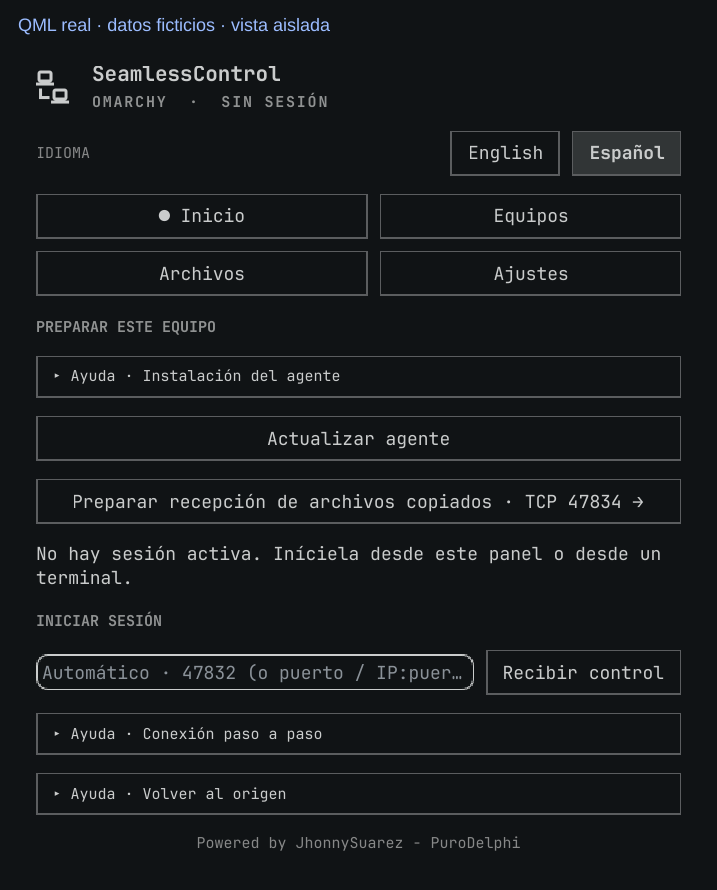
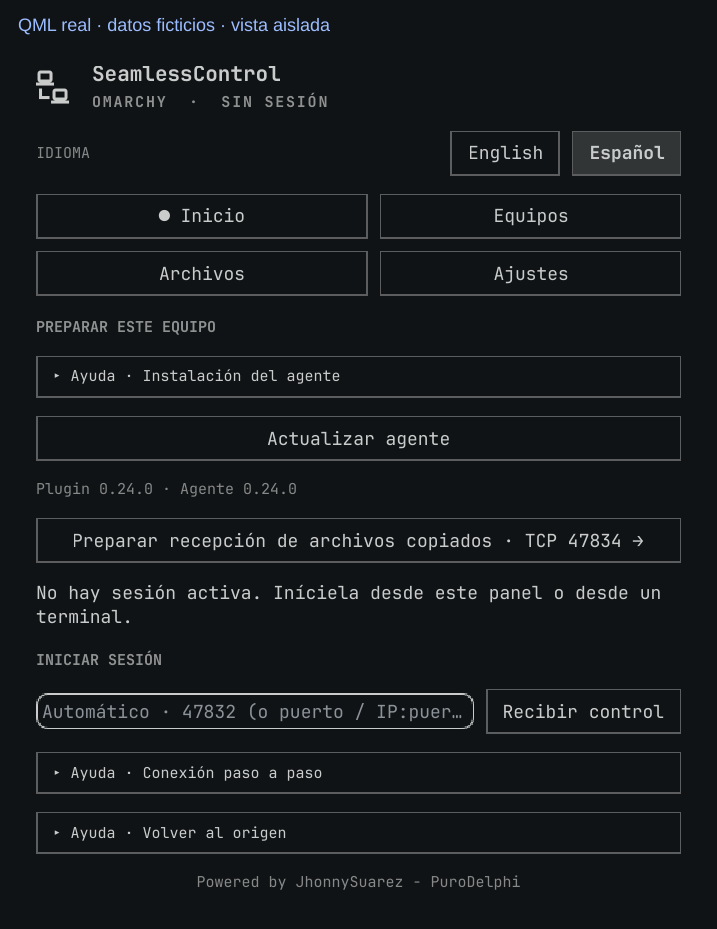
Document diagnostics and guard mismatched Windows agents

diff --git a/agent/src/windows_ui.html b/agent/src/windows_ui.html
@@ -81,7 +81,7 @@
   $('clearLayout').addEventListener('click',()=>{if(selectedPeer)send('clearLayout',{fingerprint:selectedPeer})});
   function renderCopiedFile(){const selected=state.copiedFile;$('copiedFileStatus').textContent=selected?(language==='es'?'Archivo copiado: ':'Copied file: ')+selected:(state.clipboardReady?t('copyReady','Ready for copied files · TCP 47834'):t('copyNotReady','Preparing to receive copied files…'))+' · '+(selected?'':t('copyEmpty','Copy one file in Explorer to offer it.'));if(state.clipboardProgress!==null&&state.clipboardProgress!==undefined)$('copiedFileStatus').textContent+=(language==='es'?' · Recibiendo ':' · Receiving ')+state.clipboardProgress+'%';const peers=$('copiedFilePeers');peers.replaceChildren();if(selected)for(const peer of state.peers||[])peers.append(button(t('offerTo','Offer to ')+peer.ip,'sendCopiedFile',{payload:{ip:peer.ip},primary:true}));const offer=state.clipboardOffer;$('copiedFileOffer').classList.toggle('hidden',!offer);$('copiedFileOfferActions').classList.toggle('hidden',!offer);const details=offer?.split('\t')||[];$('copiedFileOffer').textContent=details.length===5?((language==='es'?'Archivo de ':'File from ')+details[1]+': '+details[2]+' ('+details[3]+' bytes)'):offer||'';}
   function renderApprovalFeedback(){const status=approvalDirty?'unsaved':state.approvalFeedback||'';const words={saved:t('approvalSaved','File approval mode saved.'),saving:t('approvalSaving','Saving file approval mode…'),error:t('approvalError','Could not save file approval mode. Check the selected time.'),expired:t('approvalExpired','The time window ended. Every file will require approval again.'),unsaved:t('approvalUnsaved','Unsaved changes.')};$('approvalFeedback').textContent=words[status]||'';$('approvalFeedback').style.color=status==='error'?'var(--danger)':'var(--accent)';const seconds=Number(state.approvalSecondsRemaining||0);$('approvalWindow').textContent=state.approvalMode==='timed'&&seconds>0?t('approvalActive','Temporary approval active: ')+Math.floor(seconds/60)+':'+String(seconds%60).padStart(2,'0'):''}
-  function renderStartup(){const status=state.startup||'off';$('startupStatus').textContent=status==='on'?(language==='es'?'ACTIVADO':'ON'):status==='moved'?(language==='es'?'ACTUALIZAR RUTA':'UPDATE PATH'):status==='error'?(language==='es'?'ERROR':'ERROR'):(language==='es'?'DESACTIVADO':'OFF');$('startupStatus').classList.toggle('green',status==='on');$('startupStatus').classList.toggle('warn',status==='moved'||status==='error');$('startupEnable').disabled=status==='on';$('startupDisable').disabled=status==='off';const match=state.appVersion&&state.agentVersion===state.appVersion;$('versionStatus').textContent=(language==='es'?'App ':'App ')+(state.appVersion||'?')+' · '+(language==='es'?'Agente ':'Agent ')+(state.agentVersion||'?')+(match?'':language==='es'?' · VERSIONES DISTINTAS: reemplace juntos ambos ejecutables.':' · VERSION MISMATCH: replace both executables together.');$('versionStatus').style.color=match?'var(--muted)':'var(--danger)';const d=state.diagnosis;$('diagnosisStatus').textContent=!d?'':d.reason==='control_port_unreachable'?(language==='es'?'El puerto no responde. Active Recibir control en el destino y autorice su puerto TCP en el firewall.':'The port does not respond. Start Receive control on the destination and allow its TCP port in the firewall.'):d.reason==='pair_first'?(language==='es'?'Puerto disponible. Empareje y compare el código en ambos equipos; el puerto no confirma la identidad.':'Port available. Pair and compare the code on both computers; an open port does not prove identity.'):(language==='es'?'Puerto disponible y clave guardada. La identidad se verificará al conectar.':'Port available and key saved. Identity will be verified on connection.');$('diagnosisStatus').style.color=d?.reachable?'var(--accent)':'var(--danger)';}
+  function renderStartup(){const status=state.startup||'off';$('startupStatus').textContent=status==='on'?(language==='es'?'ACTIVADO':'ON'):status==='moved'?(language==='es'?'ACTUALIZAR RUTA':'UPDATE PATH'):status==='error'?(language==='es'?'ERROR':'ERROR'):(language==='es'?'DESACTIVADO':'OFF');$('startupStatus').classList.toggle('green',status==='on');$('startupStatus').classList.toggle('warn',status==='moved'||status==='error');$('startupEnable').disabled=status==='on';$('startupDisable').disabled=status==='off';const match=state.appVersion&&state.agentVersion===state.appVersion;$('versionStatus').textContent=(language==='es'?'App ':'App ')+(state.appVersion||'?')+' · '+(language==='es'?'Agente ':'Agent ')+(state.agentVersion||'?')+(match?'':language==='es'?' · VERSIONES DISTINTAS: reemplace juntos ambos ejecutables.':' · VERSION MISMATCH: replace both executables together.');$('versionStatus').style.color=match?'var(--muted)':'var(--danger)';const d=state.diagnosis?.address===$('pairAddress').value.trim()?state.diagnosis:null;$('diagnosisStatus').textContent=!d?'':d.reason==='control_port_unreachable'?(language==='es'?'El puerto no responde. Active Recibir control en el destino y autorice su puerto TCP en el firewall.':'The port does not respond. Start Receive control on the destination and allow its TCP port in the firewall.'):d.reason==='pair_first'?(language==='es'?'Puerto disponible. Empareje y compare el código en ambos equipos; el puerto no confirma la identidad.':'Port available. Pair and compare the code on both computers; an open port does not prove identity.'):(language==='es'?'Puerto disponible y clave guardada. La identidad se verificará al conectar.':'Port available and key saved. Identity will be verified on connection.');$('diagnosisStatus').style.color=d?.reachable?'var(--accent)':'var(--danger)';}
   window.seamlessReceive=function(next){state=next;renderStartup();if(!restoredConnection){$('receivePort').value=String(state.receivePort||47832);$('connectAddress').value=state.lastAddress||'';$('edge').value=state.lastEdge||'left';updateFirewallLabels();restoredConnection=true}const receive=!!state.receive,connect=!!state.connect,file=!!state.fileReceive,mode=state.controlMode||'receive';for(const [id,on] of [['receiveBadge',receive],['connectBadge',connect],['fileBadge',file]]){const badge=$(id),retrying=!on&&(id==='receiveBadge'&&mode==='receive'||id==='connectBadge'&&mode==='connect');badge.textContent=on?(language==='es'?'ACTIVO':'ACTIVE'):retrying?(language==='es'?'REINTENTANDO':'RETRYING'):(language==='es'?'INACTIVO':'OFF');badge.classList.toggle('green',on);badge.classList.toggle('warn',retrying)}$('startReceive').disabled=receive;$('stopReceive').disabled=mode!=='receive';$('startConnect').disabled=connect;$('stopConnect').disabled=mode!=='connect';$('message').textContent=state.message||'';$('topStatus').textContent=connect?(language==='es'?'CONECTADO':'CONNECTED'):mode==='connect'?(language==='es'?'REINTENTANDO':'RETRYING'):receive?(language==='es'?'DISPONIBLE':'AVAILABLE'):mode==='receive'?(language==='es'?'INICIANDO':'STARTING'):(language==='es'?'RED LOCAL':'LOCAL NETWORK');const pair=!!state.pairCode;if(pair&&state.pairCode!==lastPairCode)tab('devices');lastPairCode=state.pairCode||'';const pairWords={connecting:t('pairConnecting','Connecting to the receiver. Keep Receive control active there.'),code:t('pairCodeHelp','Compare the code on both screens and approve it on each.'),unavailable:t('pairUnavailable','Could not reach the receiver. Start Receive control on that computer and allow its control TCP port (usually 47832) through its firewall.'),rejected:t('pairRejected','Pairing was rejected. If you revoked the key, update both agents and select Pair again; compare and approve the code on both computers.'),paired:t('pairSuccess','Computer paired successfully.'),error:t('pairGenericError','Could not pair. Check the address, network and approval on both computers.')};const pairFeedback=$('pairFeedback');pairFeedback.textContent=pairWords[state.pairStatus]||'';pairFeedback.classList.toggle('hidden',!pairFeedback.textContent);$('pairBox').classList.toggle('hidden',!pair);$('pairCode').textContent=state.pairCode||'';$('fileOffer').classList.toggle('hidden',!state.fileOffer);$('fileOfferActions').classList.toggle('hidden',!state.fileOffer);const manual=state.fileOffer?.split('\t')||[];$('fileOffer').textContent=manual.length===5?((language==='es'?'Archivo de ':'File from ')+manual[1]+': '+manual[2]+' ('+manual[3]+' bytes)'):state.fileOffer||'';if(document.activeElement!==$('fileLimitMiB'))$('fileLimitMiB').value=String(state.fileLimitMiB||100);if(!approvalDirty){$('approvalMode').value=state.approvalMode||'always';$('approvalMinutes').value=String(state.approvalMinutes||15)}$('approvalMinutes').disabled=$('approvalMode').value!=='timed';renderApprovalFeedback();if(state.filePath)$('selectedPath').textContent=state.filePath;if(!$('fileDirectory').value&&state.defaultDownload)$('fileDirectory').value=state.defaultDownload;const logs=state.logs||[];const log=$('log');const current=log.dataset.last;if(current!==JSON.stringify(logs)){log.replaceChildren();for(const entry of logs){const div=document.createElement('div');div.className='log-line';div.textContent=entry;log.append(div)}log.scrollTop=log.scrollHeight;log.dataset.last=JSON.stringify(logs)}renderDevices();renderCopiedFile()};
   document.addEventListener('click',e=>{const tabButton=e.target.closest('[data-tab]');if(tabButton){tab(tabButton.dataset.tab);return}const action=e.target.closest('[data-action]')?.dataset.action;if(!action||action==='noop')return;if(action==='setFileApproval'){approvalDirty=false;state.approvalFeedback='saving';renderApprovalFeedback()}const address=$('connectAddress').value.trim();const fileAddress=$('fileAddress').value.trim();const pairAddress=$('pairAddress').value.trim();if(action==='quit'&&!confirm(language==='es'?'Salir cerrará las sesiones iniciadas desde esta app. ¿Continuar?':'Exiting will end sessions started by this app. Continue?'))return;const data={startReceive:{port:$('receivePort').value.trim()},connect:{address,edge:$('edge').value},pair:{address:pairAddress},diagnosePeer:{address:pairAddress},approvePair:{code:$('pairInput').value.trim()},waitFile:{port:$('filePort').value.trim(),directory:$('fileDirectory').value.trim()},setFileLimit:{value:$('fileLimitMiB').value.trim()},setFileApproval:{mode:$('approvalMode').value,minutes:$('approvalMinutes').value.trim()},sendFile:{address:fileAddress},firewallControl:{port:$('receivePort').value.trim()},firewallFiles:{port:$('filePort').value.trim()}}[action]||{};send(action,data)});
   $('approvalMode').addEventListener('change',()=>{approvalDirty=true;$('approvalMinutes').disabled=$('approvalMode').value!=='timed';renderApprovalFeedback()});$('approvalMinutes').addEventListener('input',()=>{approvalDirty=true;renderApprovalFeedback()});$('receivePort').addEventListener('input',updateFirewallLabels);$('filePort').addEventListener('input',updateFirewallLabels);

diff --git a/plugin/Panel.qml b/plugin/Panel.qml
@@ -592,6 +592,10 @@ Panel {
             id: pairAddress
             Layout.fillWidth: true
             enabled: root.backend && !root.backend.available
+            onTextChanged: if (root.backend) {
+              root.backend.diagnosisReason = ""
+              root.backend.diagnosisError = ""
+            }
             placeholderText: root.t("Dirección del receptor · IP:puerto")
             color: root.ink
             font.family: root.face

diff --git a/plugin/AgentBackend.qml b/plugin/AgentBackend.qml
@@ -599,7 +599,7 @@ Item {
       waitForEnd: true
       onStreamFinished: root.agentVersion = String(text || "").trim()
     }
-    onExited: function(code) { if (code !== 0) root.agentVersion = "" }
+    onExited: function(code) { if (code !== 0) root.agentVersion = "?" }
   }
 
   Process {

diff --git a/agent/src/windows_ui.rs b/agent/src/windows_ui.rs
@@ -456,6 +456,14 @@ impl Controller {
     }
 
     fn start_desired_control(&mut self, proxy: &EventLoopProxy<UiEvent>) -> io::Result<()> {
+        if self.session.mode != ControlMode::Idle
+            && self.agent_version != seamlesscontrol_core::PRODUCT_VERSION
+        {
+            self.retry_control_after = None;
+            return Err(io::Error::other(
+                "app and agent versions differ; exit from the tray and replace both executables from the same ZIP",
+            ));
+        }
         let receive_port = self.session.receive_port;
         let address = self.session.address.map(|address| address.to_string());
         let edge = self.session.edge.clone();
@@ -1140,6 +1148,7 @@ impl Controller {
                 }
                 "refreshPeers" => self.refresh_peers(),
                 "diagnosePeer" => {
+                    self.diagnosis = None;
                     let address = parse_address(string("address"))?;
                     self.diagnosis = Some(diagnose_peer(
                         address,

diff --git a/scripts/render-omarchy-doc-screenshots.py b/scripts/render-omarchy-doc-screenshots.py
@@ -146,7 +146,8 @@ def fixture_qml(language):
     defaults = {"string": '""', "bool": "false", "int": "0", "var": "null"}
     properties = re.findall(r"^  (?:readonly )?property (string|bool|int|var) (\w+):", source, re.M)
     values = {
-        "language": language, "installed": True, "peers": [{"ip": "192.0.2.20", "key": "abcdef0123456789" * 4}],
+        "language": language, "installed": True, "pluginVersion": "0.24.0", "agentVersion": "0.24.0",
+        "peers": [{"ip": "192.0.2.20", "key": "abcdef0123456789" * 4}],
         "discovered": [{"ip": "192.0.2.20", "key": "abcdef0123456789" * 4, "name": "Demo receiver", "address": "192.0.2.20:47832"}],
         "topology": [{"id": "local", "column": 0, "row": 0}, {"id": "192.0.2.20", "column": 1, "row": 0}],
         "peer": "192.0.2.20", "fileLimitMiB": 100, "approvalMode": "always", "approvalMinutes": 15,

diff --git a/scripts/render-windows-doc-screenshots.py b/scripts/render-windows-doc-screenshots.py
@@ -44,6 +44,7 @@ FOCUS_CSS = {
 def fixture(language: str, view: str) -> dict:
     """Supply the UI's normal state shape, never a successful live operation."""
     state = {
+        "appVersion": "0.24.0", "agentVersion": "0.24.0", "diagnosis": None,
         "receive": True, "connect": False, "fileReceive": False,
         "controlMode": "receive", "receivePort": 47832,
         "lastAddress": "192.0.2.20:47832", "lastEdge": "right",

diff --git a/docs/IMPROVEMENTS-ALPHA.md b/docs/IMPROVEMENTS-ALPHA.md
@@ -6,7 +6,7 @@ Status: **planned** → **in progress** → **implemented** → **verified**. An
 
 | Priority | Improvement | Status | Completion criteria |
 | --- | --- | --- | --- |
-| 1 | Connection diagnosis and repair in both interfaces | In progress | Show agent, receiver, reachable control port, pairing and discovery results with a specific next action; do not claim that an open port proves the peer identity. |
+| 1 | Connection diagnosis and repair in both interfaces | Implemented | Show agent, receiver, reachable control port, pairing and discovery results with a specific next action; do not claim that an open port proves the peer identity. Physical Omarchy ↔ Windows UI verification remains before marking verified. |
 | 2 | Clear and safer updates | In progress | Show plugin and agent versions in Omarchy, detect mismatch and confirm update completion; offer a Windows package/update flow that replaces the GUI and agent together without losing preferences. |
 | 3 | Recover control through lock, sleep and disconnect | Planned | Release physical input before a source locks or sleeps; restore local control and require a fresh edge crossing after recovery; test on both physical systems. |
 | 4 | Copy multiple files and folders | Planned | Offer a group as one approval with item count, total size and safe destination handling; preserve the existing single-file behavior. |
@@ -18,7 +18,7 @@ Status: **planned** → **in progress** → **implemented** → **verified**. An
 | Date | Item | Evidence | Result |
 | --- | --- | --- | --- |
 | 2026-10-09 | Baseline | `alpha` starts at `838d164`; current Linux and Windows x64 CI passed for v0.23.3. | Baseline established. |
-| 2026-10-09 | Diagnosis | Added a shared, read-only LAN port and local trust check, with an action in each interface. A reachable port is explicitly not treated as proof of identity. | Implemented; Windows CI and physical UI checks pending. |
+| 2026-10-09 | Diagnosis | Added a shared, read-only LAN port and local trust check, with an action in each interface. A reachable port is explicitly not treated as proof of identity. Linux: 77 core tests passed; direct CLI probe of the live receiver returned `CHECK … false true pair_first`; Omarchy preview loaded; Windows x64 CI passed at `eda1360`. | Implemented; physical Windows UI check pending. |
 | 2026-10-09 | Updates | Embedded manifest version in both agents. Omarchy compares plugin and agent; Windows compares app and agent. | Version check implemented; bundled updater pending. |
 
 ## Implementation notes

diff --git a/docs/USER-GUIDE.es.md b/docs/USER-GUIDE.es.md
@@ -24,6 +24,8 @@ El puerto de control predeterminado es TCP `47832`. Si el emparejamiento agota e
 
 Abre **Equipos → 2 · Equipos cercanos**, pulsa **Buscar** y luego **Emparejar** junto al receptor. Si no aparece, usa **1 · Emparejar por dirección** con la `IP:puerto` real del receptor en la LAN. Son **dos alternativas**, no dos pasos obligatorios.
 
+Para una dirección manual, pulsa **Comprobar conexión antes de emparejar**. Si el puerto de control no responde, inicia **Recibir control** en el destino y autoriza allí su puerto TCP en el firewall. Si responde, continúa con el emparejamiento. Esta comprobación del puerto no establece confianza: para eso sigue siendo necesario comparar el código de seis cifras.
+
 Aparece un **código de seis cifras** en ambos equipos. Compara las dos pantallas y pulsa **Coincide · aprobar aquí** en **cada una** solo si coinciden. Si no, pulsa **No coincide · rechazar**. Emparejar guarda la confianza; no inicia el control del ratón y teclado. Una huella larga de identidad no es este código de comparación.
 
 ![Panel Equipos actual: dirección de emparejamiento, confirmación de seis cifras y equipos cercanos](images/omarchy-peers-es.png)
@@ -160,6 +162,8 @@ El botón de reparar captura solo aparece en una **sesión de origen iniciada de
 ## Actualizar y retirar
 
 Detén las sesiones activas antes de instalar, actualizar o retirar. **Inicio → Actualizar agente** abre una terminal de Omarchy para instalar el agente actual y las dependencias que falten. Actualiza el **plugin** por separado y reinicia el shell de Omarchy siguiendo el [README](../README.es.md#actualizar-o-retirar); vuelve a abrir el panel después. Si faltan las pestañas actuales o los ajustes de aprobación, el shell puede tener cargado un panel anterior.
+
+Inicio muestra las versiones del plugin y del agente instalado. Si son distintas, termina la sesión y pulsa **Actualizar agente**. Espera a que finalice la terminal de instalación; después vuelve a Inicio y comprueba que coincidan.
 
 **Ajustes → Retirar agente** pide confirmación y retira el agente administrado y solo los paquetes que SeamlessControl instaló para él. Conserva las claves emparejadas y el mapa. Retirar el agente no retira el plugin ni sus reglas de firewall; el README y la guía técnica explican esos pasos separados. Si el panel no puede abrir la terminal de instalación, usa la [instalación manual de la guía técnica](TECHNICAL.es.md#paquetes-y-actualizaciones).
 

diff --git a/docs/USER-GUIDE.md b/docs/USER-GUIDE.md
@@ -24,6 +24,8 @@ The default control port is TCP `47832`. If pairing times out, allow that port o
 
 Open **Computers → 2 · Nearby computers**, select **Scan**, then **Pair** beside the receiver. If discovery misses it, use **1 · Pair by address** with the receiver's actual LAN `IP:port` instead. These are **two alternatives**, not two required steps.
 
+For a manual address, select **Check connection before pairing**. If the control port does not respond, start **Receive control** on the destination and allow its TCP control port in that computer's firewall. If it responds, proceed with pairing. The port check does not establish trust: the matching six-digit code still does that.
+
 A **six-digit code** appears on both computers. Compare the two screens and select **Codes match · approve here** on **each** only if they agree. Otherwise select **Codes differ · reject**. Pairing saves trust; it does not start mouse and keyboard control. A long identity fingerprint is not this comparison code.
 
 ![Current Computers panel: pairing address, six-digit confirmation and nearby computers](images/omarchy-peers-en.png)
@@ -160,6 +162,8 @@ The capture repair button only appears for a **panel-started source session** af
 ## Update and remove
 
 Stop active sessions before installation, updating or removal. **Home → Update agent** opens an Omarchy terminal to install the current agent and missing dependencies. Update the **plugin** separately and restart the Omarchy shell following the [README](../README.md#update-or-remove); reopen the panel afterward. If current tabs or approval settings are missing, the shell may still have an older panel loaded.
+
+Home shows the plugin and installed agent versions. If they differ, stop the session and select **Update agent**. Wait for the installation terminal to finish, then return to Home and check that both versions match.
 
 **Settings → Remove agent** asks for confirmation and removes the managed agent and only packages SeamlessControl installed for it. Saved paired keys and layout remain. Removing the agent is not removing the plugin or its firewall rules; the README and technical guide explain those separate steps. If the panel cannot open the setup terminal, use the [technical guide's manual installation](TECHNICAL.md#packaging-and-updates).
 

diff --git a/docs/WINDOWS.es.md b/docs/WINDOWS.es.md
@@ -56,6 +56,8 @@ Emparejar establece confianza; **no** inicia la entrada remota. Necesitas acceso
 3. Compara las **seis cifras de ambas pantallas**. Si no coinciden o no esperabas la solicitud, pulsa **Rechazar**. En Windows, escribe las cifras mostradas y pulsa **Coinciden · aprobar**; aprueba también en el otro equipo. La huella de identidad larga no es el código de emparejamiento.
 4. Resultado esperado: **Equipo emparejado correctamente** y una fila en **3 Equipos emparejados**. Solo después sitúalo en el mapa o conecta.
 
+Si falla el emparejamiento con una dirección escrita manualmente, pulsa **Comprobar conexión**. Distingue un puerto inaccesible de un equipo accesible que aún necesita emparejarse. Un puerto abierto no demuestra la identidad: compara el código de seis cifras.
+
 ![Aprobación de emparejamiento: compara el código ficticio de seis cifras en ambos equipos antes de aprobar](images/windows-pairing-es.png)
 
 ![Equipos: alternativas de emparejamiento, filas emparejadas y mapa de pantallas](images/windows-devices-es.png)
@@ -195,6 +197,7 @@ Si un bloqueo/UAC de Windows o una aplicación elevada impide la entrada, usa lo
 1. Elige **Exit SeamlessControl** en la bandeja (o **Ajustes → Salir de la app**). Cierra también cualquier agente de consola iniciado por separado.
 2. Descarga el **release con tag** o **artefacto alpha satisfactorio** que quieras siguiendo la vía correspondiente de instalación.
 3. Extráelo y sustituye **ambos `.exe` juntos** en la carpeta de la app. Abre de nuevo `seamlesscontrol.exe`. Resultado esperado: se conservan el modo de control y los datos locales de emparejamiento.
+   **Ajustes → Acerca de SeamlessControl** muestra las versiones de la app y del agente. Si son distintas, sal desde la bandeja y reemplaza ambos ejecutables del mismo ZIP.
 4. Si moviste la carpeta de la app, actualiza **Iniciar con Windows** desde su ubicación nueva.
 
 Los datos de **`%LOCALAPPDATA%\SeamlessControl`** están separados de los ejecutables. No los borres como paso de una actualización normal.

diff --git a/docs/WINDOWS.md b/docs/WINDOWS.md
@@ -56,6 +56,8 @@ Pairing establishes trust; it does **not** start remote input. You need access t
 3. Compare the **six digits on both screens**. If they differ, or the request is unexpected, choose **Decline**. In Windows, type the displayed digits and choose **Codes match · approve**; approve on the other computer too. The long identity fingerprint is not the pairing code.
 4. Expected result: **Computer paired successfully** and a row in **3 Paired computers**. Only then place it on the map or connect.
 
+If pairing failed with an address you entered manually, select **Check connection**. It distinguishes an unreachable port from a reachable computer that still needs pairing. An open port does not prove identity; compare the six-digit code.
+
 ![Pairing approval: compare the example six-digit code on both computers before approving](images/windows-pairing-en.png)
 
 ![Computers: pairing alternatives, paired rows and the screen layout](images/windows-devices-en.png)
@@ -195,6 +197,7 @@ If a Windows lock/UAC prompt or an elevated application blocks input, use the lo
 1. Choose **Exit SeamlessControl** from the tray (or **Settings → Exit app**). Close any separately started console agent too.
 2. Download the desired **tagged release** or **successful alpha artifact**, following the matching installation route above.
 3. Extract it and replace **both `.exe` files together** in your app folder. Open `seamlesscontrol.exe` again. Expected result: the saved control mode and local pairing data are retained.
+   **Settings → About SeamlessControl** shows the app and agent versions. If they differ, exit from the tray and replace both executables from the same ZIP.
 4. If you moved the app folder, update **Start with Windows** from its new location.
 
 The data in **`%LOCALAPPDATA%\SeamlessControl`** is separate from the executables. Do not delete it as an ordinary update step.
